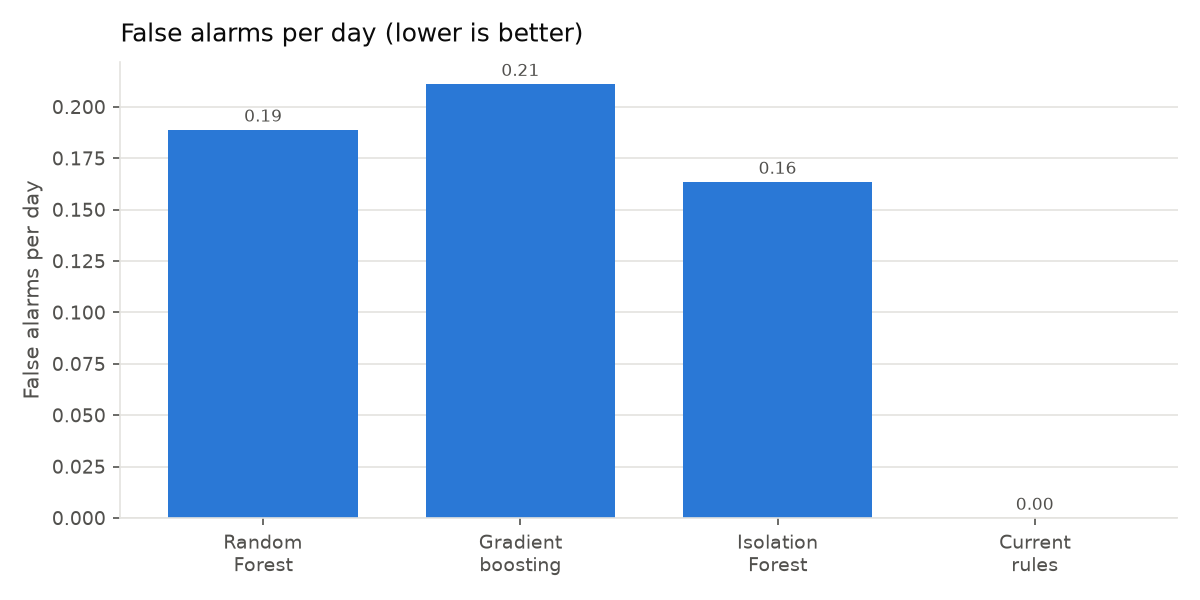
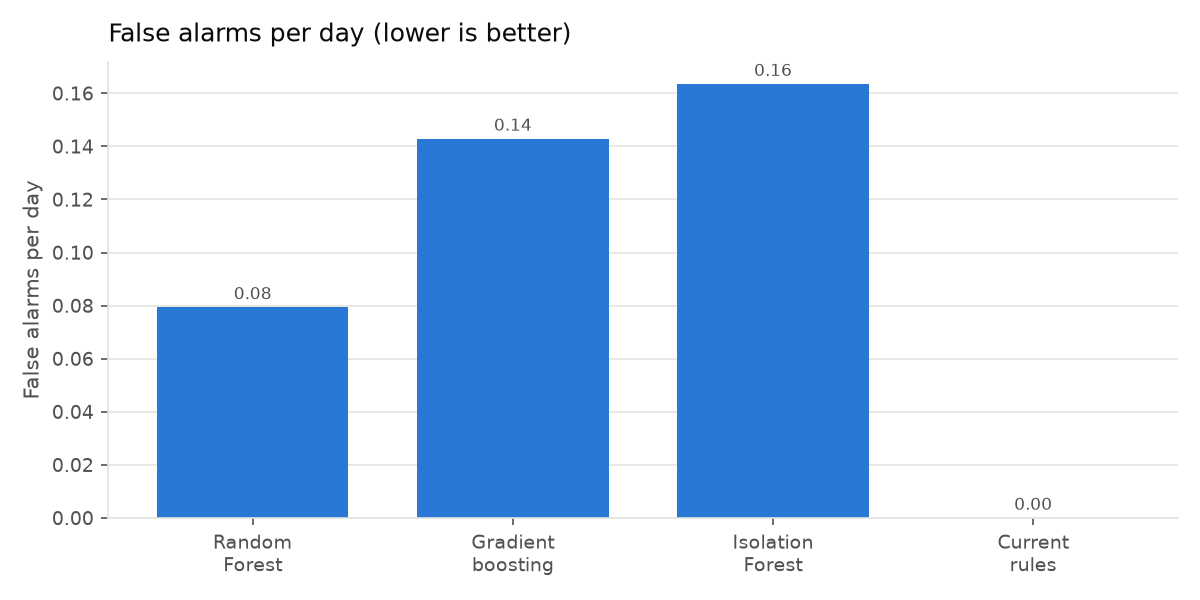
Tighten false-alarm budget (0.05/day per alarm), final model without house baseline; Colab clones main
Held-out (8 seeds x 21 days, synthetic): 24/24 micro-leaks, 16/16 bursts,
0.01 false alarms/day.

diff --git a/edge-ai/model/train_leak_model.py b/edge-ai/model/train_leak_model.py
@@ -147,6 +147,8 @@ def main():
     ap.add_argument("--real", help="REAL readings CSV exported from MongoDB (timestamp, flowRate, volume)")
     ap.add_argument("--real-events", help="staged anomalies on the real loop (start, end, type, label)")
     ap.add_argument("--fa-budget", type=float, default=0.1, help="max false alarms per day, per alarm, when tuning")
+    ap.add_argument("--final-features", default="all", choices=list(ld.FEATURE_SETS),
+                    help="feature set for the saved final model (the ablation compares them)")
     ap.add_argument("--out", default=str(HERE / "results"))
     ap.add_argument("--seed", type=int, default=0)
     a = ap.parse_args()
@@ -207,7 +209,7 @@ def main():
     # ── Final model: train on all but the last fold (H01–H25), tune on the last (H26–H30) ──
     n_val = len(homes) // N_FOLDS
     final_train, final_val = homes[:-n_val], homes[-n_val:]
-    model, cols, tuned = fit_and_tune(best_kind, "all", feats, data, final_train, final_val, a.fa_budget, a.seed)
+    model, cols, tuned = fit_and_tune(best_kind, a.final_features, feats, data, final_train, final_val, a.fa_budget, a.seed)
     joblib.dump({"model": model, "features": cols, "alarms": tuned, "model_type": best_name}, out / "leak_model.joblib")
 
     extra = {}

diff --git a/edge-ai/model/results/REPORT.md b/edge-ai/model/results/REPORT.md
@@ -1,38 +1,38 @@
 # AquaFlow leak detection — results
-30 simulated households (SIMDEUM + loop sensor model), 180 injected anomalies. 6-fold cross-validation by household: every household is tested once by a model that never saw it. Values are mean ± standard deviation across folds; delays are medians in minutes. Alarm false-alarm budget when tuning: 0.1/day per alarm.
+30 simulated households (SIMDEUM + loop sensor model), 180 injected anomalies. 6-fold cross-validation by household: every household is tested once by a model that never saw it. Values are mean ± standard deviation across folds; delays are medians in minutes. Alarm false-alarm budget when tuning: 0.05/day per alarm.
 ## Detectors compared
 | detector | micro_leak_recall | burst_recall | false_alarms_per_day | micro_leak_delay_min | burst_delay_min | caught_total |
 |---|---|---|---|---|---|---|
-| Random Forest | 99% ± 2% | 92% ± 4% | 0.19 ± 0.03 | 9 | 17 | 119/120 leaks, 55/60 bursts |
-| Gradient boosting | 100% ± 0% | 93% ± 8% | 0.21 ± 0.10 | 9 | 20 | 120/120 leaks, 56/60 bursts |
+| Random Forest | 99% ± 2% | 92% ± 4% | 0.08 ± 0.05 | 10 | 19 | 119/120 leaks, 55/60 bursts |
+| Gradient boosting | 100% ± 0% | 90% ± 9% | 0.14 ± 0.08 | 9 | 23 | 120/120 leaks, 54/60 bursts |
 | Isolation Forest (no labels) | 92% ± 7% | 75% ± 10% | 0.16 ± 0.04 | 59 | 33 | 111/120 leaks, 45/60 bursts |
 | Current backend rules | 0% ± 0% | 0% ± 0% | 0.00 ± 0.00 | – | – | 0/120 leaks, 0/60 bursts |
 
-## Ablation (Gradient boosting)
+## Ablation (Random Forest)
 | detector | micro_leak_recall | burst_recall | false_alarms_per_day | micro_leak_delay_min | burst_delay_min | caught_total |
 |---|---|---|---|---|---|---|
-| all features | 100% ± 0% | 93% ± 8% | 0.21 ± 0.10 | 9 | 20 | 120/120 leaks, 56/60 bursts |
-| without time of day | 100% ± 0% | 93% ± 8% | 0.23 ± 0.08 | 9 | 19 | 120/120 leaks, 56/60 bursts |
-| without time & flow level | 100% ± 0% | 83% ± 10% | 0.17 ± 0.06 | 12 | 20 | 120/120 leaks, 50/60 bursts |
-| without house baseline | 100% ± 0% | 93% ± 8% | 0.18 ± 0.10 | 8 | 17 | 120/120 leaks, 56/60 bursts |
+| all features | 99% ± 2% | 92% ± 4% | 0.08 ± 0.05 | 10 | 19 | 119/120 leaks, 55/60 bursts |
+| without time of day | 99% ± 2% | 90% ± 6% | 0.09 ± 0.04 | 9 | 18 | 119/120 leaks, 54/60 bursts |
+| without time & flow level | 99% ± 2% | 92% ± 8% | 0.08 ± 0.04 | 30 | 19 | 119/120 leaks, 55/60 bursts |
+| without house baseline | 100% ± 0% | 92% ± 4% | 0.09 ± 0.05 | 9 | 19 | 120/120 leaks, 55/60 bursts |
 
 ## By anomaly shape
 ```
               caught  total  median_delay_min  recall
 type                                                 
-burst             56     60              20.5    0.93
-cistern_leak      39     39              20.0    1.00
-growing_leak      39     39               7.0    1.00
+burst             55     60              19.0    0.92
+cistern_leak      38     39              26.0    0.97
+growing_leak      39     39               6.0    1.00
 steady_leak       42     42               9.0    1.00
 ```
 
 ## False alarms per day by routine
-{"day": 0.213, "night_shift": 0.2}
+{"day": 0.072, "night_shift": 0.114}
 
 ## False alarms per day by household type
-{"family": 0.21, "one_person": 0.21, "two_person": 0.214}
+{"family": 0.1, "one_person": 0.076, "two_person": 0.062}
 
 ## Final model on other data
-- **original single-household dataset**: micro-leaks 3/3, bursts 2/2, false alarms/day 0.05
+- **original single-household dataset**: micro-leaks 3/3, bursts 2/2, false alarms/day 0.00
 
-Final alarm settings (threshold, minutes): {"micro_leak": [0.95, 3], "burst": [0.3, 15]}
+Final alarm settings (threshold, minutes): {"micro_leak": [0.8, 2], "burst": [0.5, 20]}
